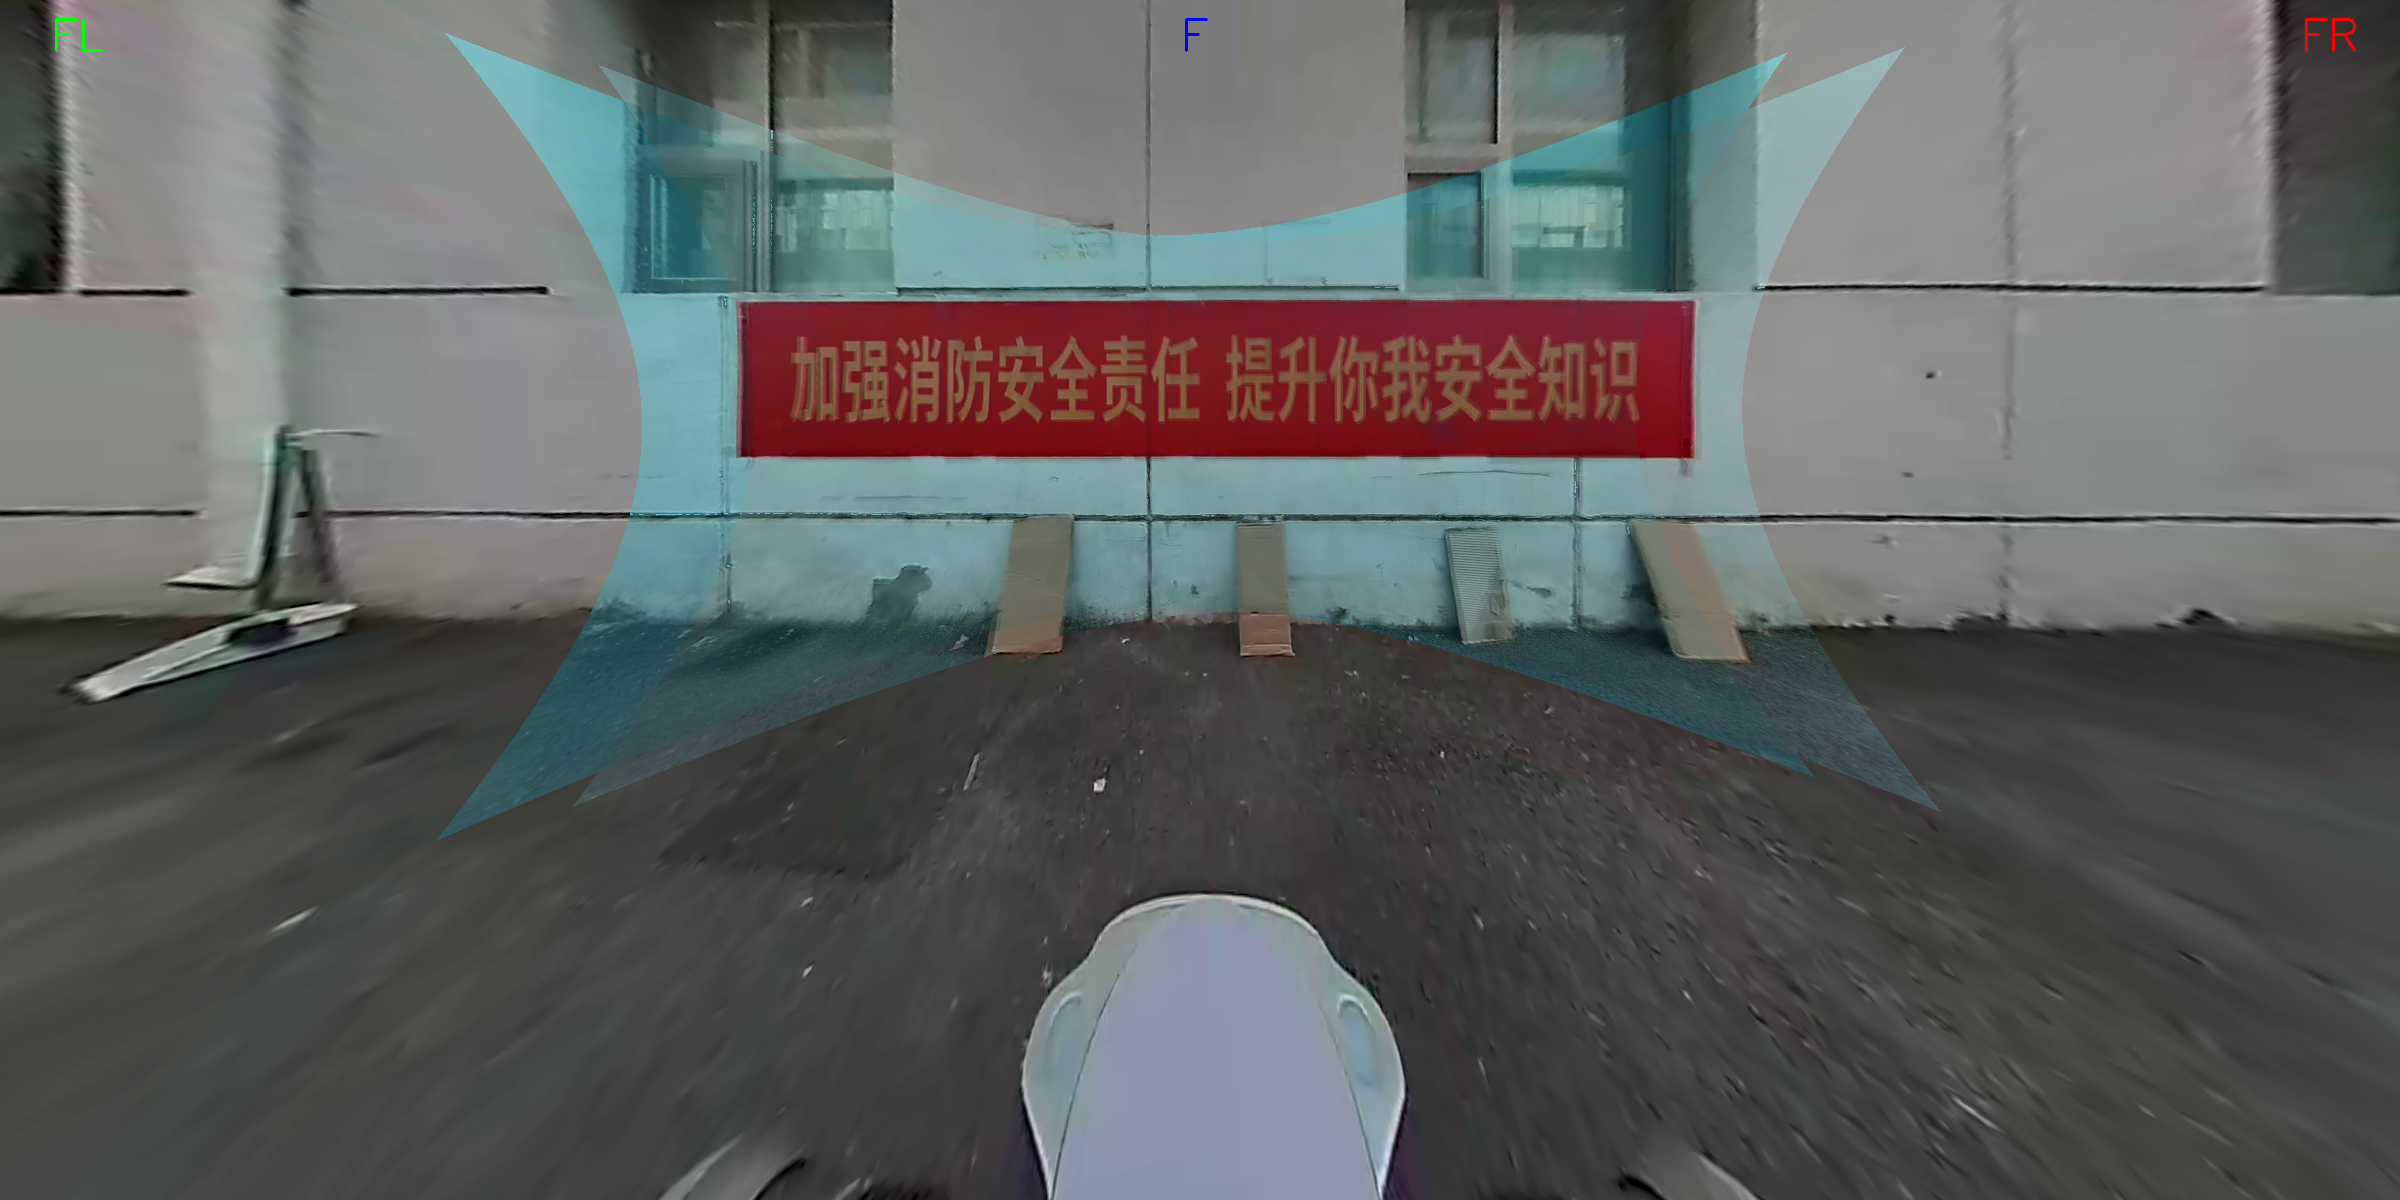
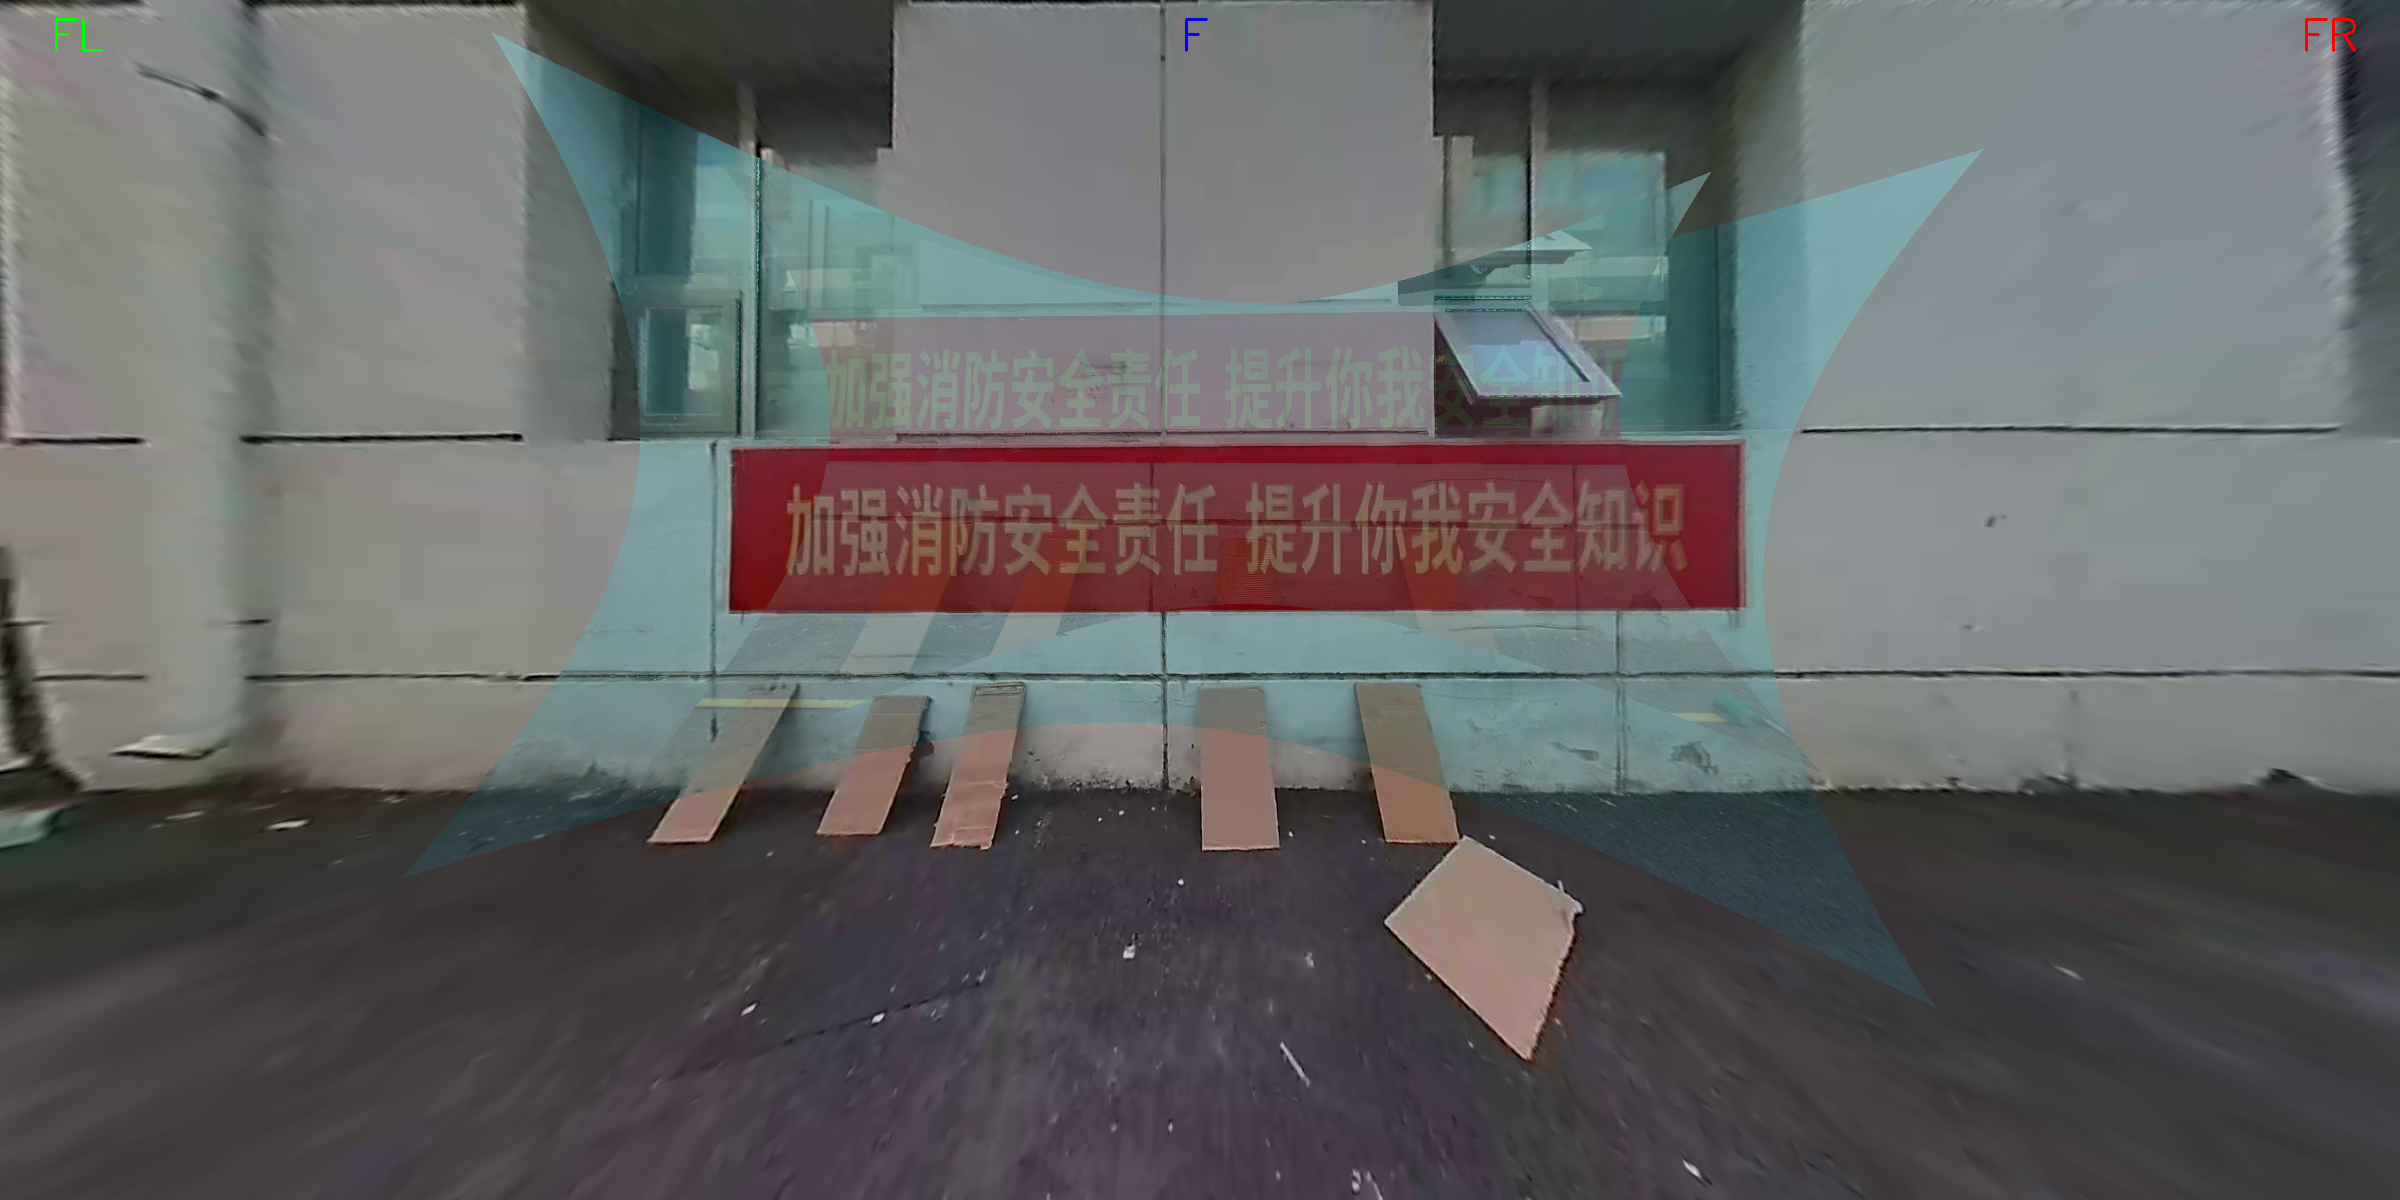
标定文件暂存

diff --git a/surround-camera/manual_calib_front3/src/run_front3_calib_v4.cpp b/surround-camera/manual_calib_front3/src/run_front3_calib_v4.cpp
@@ -6,7 +6,8 @@
  * - Multiple stitching modes: FL+FR, FL+F, F+FR, FL+F+FR
  * - Single camera views: FL, F, FR
  * venv) nio@PC1Y47SH:/mnt/d327cf14-2b9b-4977-955d-e19c9242ea1a/deqi/r_calib/third_party/SensorsCalibration/surround-camera/manual_calib_front3$ 
- * cd build/ && make -j4 && cd .. && ./bin/run_front3_calib_v4 ./2_dog/imgs/ ./2_dog/param/ ./2_dog/param/camera_extrinsics_ikalibr.json5 
+ * cd build/ && make -j4 && cd .. && ./bin/run_front3_calib_v4 ./2_dog/imgs/ ./2_dog/param/ ./2_dog/param/camera_extrinsics_ikalibr.json5 [wall_distance_m]
+ *   wall_distance_m: optional, default 1.8m
  */
 #include <boost/filesystem.hpp>
 #include <opencv2/opencv.hpp>
@@ -75,7 +76,7 @@ double cali_scale_trans_ = 0.05;   // Default translation step (meters = 5cm)
 int view_mode = 0;  // 0=ALL, 1=FL, 2=F, 3=FR, 4=FL+FR, 5=FL+F, 6=F+FR
 
 // Front wall projection parameters (单位: 米)
-double wall_distance = 3.0;       // Default changed to 3m
+double wall_distance = 1.8;       // Default: 1.8m, can be overridden by command line arg[4]
 double wall_width = 12.0;
 double wall_height = 6.0;
 double wall_center_y = 0.0;
@@ -551,9 +552,10 @@ string getViewModeName() {
 
 int main(int argc, char **argv) {
     if (argc < 4) {
-        cout << "Usage: ./run_front3_calib_v4 <image_path> <intrinsic_path> <extrinsic_json>" << endl;
+        cout << "Usage: ./run_front3_calib_v4 <image_path> <intrinsic_path> <extrinsic_json> [wall_distance_m]" << endl;
         cout << "\nExample:" << endl;
         cout << "  ./run_front3_calib_v4 ./imgs ./intrinsics ./extrinsics.json" << endl;
+        cout << "  ./run_front3_calib_v4 ./imgs ./intrinsics ./extrinsics.json 5.0   # wall at 5m" << endl;
         cout << "\nView Modes:" << endl;
         cout << "  - FL+F+FR: All three cameras (default)" << endl;
         cout << "  - FL+FR: Left and right side cameras only" << endl;
@@ -566,6 +568,15 @@ int main(int argc, char **argv) {
     string image_path = argv[1];
     string intrinsic_path = argv[2];
     string extrinsic_file = argv[3];
+    
+    // Optional: wall distance from command line (default 1.8m)
+    if (argc >= 5) {
+        wall_distance = atof(argv[4]);
+        if (wall_distance <= 0) {
+            cerr << "Warning: invalid wall_distance " << argv[4] << ", using default 1.8m" << endl;
+            wall_distance = 1.8;
+        }
+    }
     
     cout << "==========================================" << endl;
     cout << "Front 3 Cameras Manual Calibration (V4)" << endl;
@@ -599,6 +610,7 @@ int main(int argc, char **argv) {
     CalibrationInit();
     
     cout << "\nGenerating wall projections..." << endl;
+    cout << "  Wall distance: " << wall_distance << " m" << endl;
     updateAllProjections();
     cout << "  Done" << endl;
     
